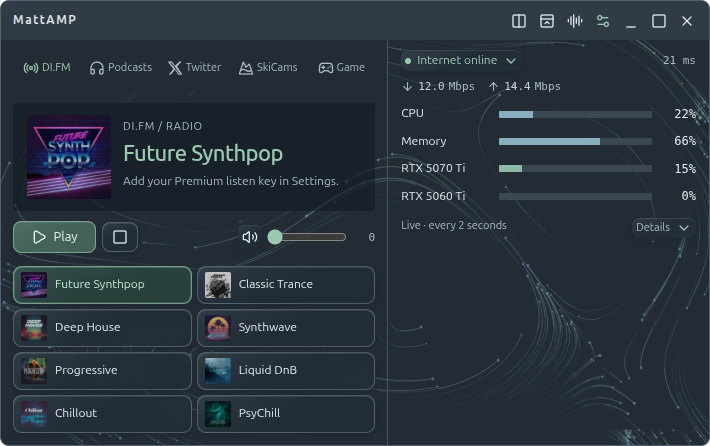
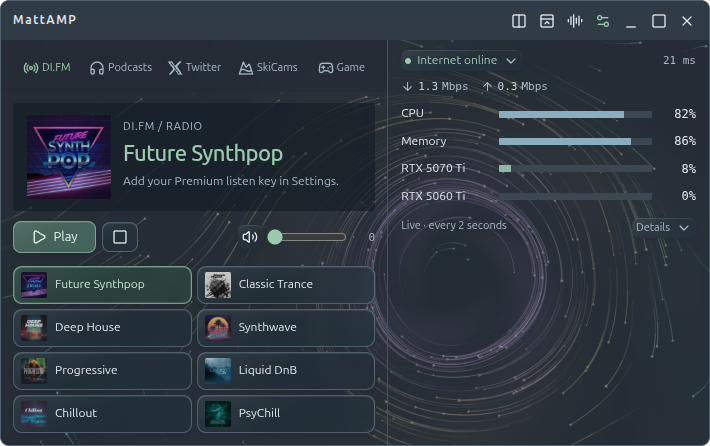
Add drifting hurricane patterns to Particle Flow

diff --git a/src/ambient.js b/src/ambient.js
@@ -137,33 +137,49 @@ class MattTrenchScene {
  }
 }
 
-/* Moving eddies carry layered tracers; trails and particle count stay bounded. */
+/* Decorative wind field, not live weather: bounded tracers orbit a drifting storm. */
 class MattParticleFlow {
  constructor(w,h){
   this.width=w;this.height=h;
-  this.particles=Array.from({length:Math.min(360,Math.max(180,Math.round(w*h/1350)))},(_,i)=>{
+  this.particles=Array.from({length:Math.min(480,Math.max(220,Math.round(w*h/1050)))},(_,i)=>{
    const depth=.35+(i*.754877666%1)*.65;
-   return {x:(i*.61803398875%1)*w,y:(i*.41421356237%1)*h,vx:0,vy:0,depth,tint:i%7===0?2:i%3===0?1:0,trail:[],age:(i*.56984029%1)*24,life:24+(i%11),generation:0,index:i,fade:1};
+   return {x:(i*.61803398875%1)*w,y:(i*.41421356237%1)*h,vx:0,vy:0,depth,energy:0,trail:[],age:(i*.56984029%1)*24,life:24+(i%11),generation:0,index:i,fade:1};
   });
+ }
+ weather(time){
+  const scale=Math.min(this.width,this.height);
+  return {x:this.width*(.55+.14*Math.sin(time*.018)),y:this.height*(.53+.13*Math.cos(time*.021)),r:scale*(.39+.035*Math.sin(time*.026)),eye:scale*.045,phase:time*.07};
+ }
+ wind(x,y,time,storm=this.weather(time)){
+  const dx=x-storm.x,dy=y-storm.y,d=Math.hypot(dx,dy),r=storm.r;
+  const angle=Math.atan2(dy,dx),q=Math.max(0,(d-storm.eye)/(r*.15));
+  const wall=1-Math.exp(-q*q),influence=Math.exp(-Math.pow(d/(r*1.4),4));
+  const bands=.66+.34*Math.sin(angle*3-Math.log(Math.max(d,storm.eye)/r)*5+storm.phase);
+  const rotation=115*wall*Math.exp(-d/(r*.9))*(.86+bands*.14);
+  const inflow=-20*wall*Math.exp(-d/r)*bands;
+  const norm=Math.max(d,1),background=1-influence;
+  const vx=(19+19*Math.sin(y/this.height*7+time*.1)+12*Math.cos(y/this.height*13-time*.08))*background+(-dy*rotation+dx*inflow)/norm;
+  const vy=(17*Math.sin(x/this.width*8-time*.09)+10*Math.cos(x/this.width*15+time*.07))*background+(dx*rotation+dy*inflow)/norm;
+  const eyeFade=Math.max(0,Math.min(1,(d-storm.eye*.65)/(storm.eye*.6)));
+  return {vx,vy,energy:Math.min(1,Math.hypot(vx,vy)/65),wash:wall*Math.exp(-d/(r*1.15))*bands,eyeFade};
+ }
+ // Subdued wind-map palette: cool currents, green bands, warmer eyewall.
+ color(energy){
+  const stops=[[123,177,204],[145,190,171],[185,168,126],[166,143,185]];
+  const t=Math.max(0,Math.min(1,energy))*3,i=Math.min(2,Math.floor(t)),f=t-i;
+  return stops[i].map((n,j)=>Math.round(n+(stops[i+1][j]-n)*f));
  }
  step(dt,time,pointer={x:.5,y:.5,strength:0}){
   if(!Number.isFinite(dt)||dt<=0)return;
-  dt=Math.min(dt,.08);const w=this.width,h=this.height,scale=Math.min(w,h);
-  const eddies=[
-   {x:w*(.31+.12*Math.sin(time*.085)),y:h*(.38+.17*Math.cos(time*.065)),r:scale*.36,spin:1},
-   {x:w*(.7+.12*Math.cos(time*.07)),y:h*(.64+.16*Math.sin(time*.09)),r:scale*.3,spin:-1},
-   {x:w*(.48+.23*Math.sin(time*.045)),y:h*(.5+.25*Math.cos(time*.055)),r:scale*.47,spin:.65}
-  ];
-  const mx=pointer.x*w,my=pointer.y*h,radius=Math.max(100,Math.min(190,scale*.4));
+  dt=Math.min(dt,.08);const w=this.width,h=this.height,storm=this.weather(time);
+  const mx=pointer.x*w,my=pointer.y*h,radius=Math.max(100,Math.min(190,Math.min(w,h)*.4));
   for(const p of this.particles){
-   const x=p.x/w,y=p.y/h;
-   let vx=19+19*Math.sin(y*7+time*.18)+12*Math.cos(y*13-time*.13),vy=17*Math.sin(x*8-time*.16)+10*Math.cos(x*15+time*.11);
-   for(const e of eddies){const dx=p.x-e.x,dy=p.y-e.y,falloff=Math.exp(-(dx*dx+dy*dy)/(e.r*e.r));vx-=dy/e.r*155*falloff*e.spin;vy+=dx/e.r*155*falloff*e.spin;}
+   const wind=this.wind(p.x,p.y,time,storm);let {vx,vy}=wind;
    const dx=p.x-mx,dy=p.y-my,falloff=Math.exp(-(dx*dx+dy*dy)/(radius*radius))*(pointer.strength||0);
-   // A soft whirlpool with an outward wake; no hard mouse collision or input interception.
    vx+=(dx*.32-dy)*falloff*1.3;vy+=(dy*.32+dx)*falloff*1.3;
-   const ease=1-Math.exp(-dt*2.8),speed=.65+p.depth*.65;
-   p.vx+=(vx*speed-p.vx)*ease;p.vy+=(vy*speed-p.vy)*ease;
+   // Fast directional response keeps the eyewall coherent; depth still varies speed.
+   const ease=1-Math.exp(-dt*7),speed=.8+p.depth*.4;
+   p.vx+=(vx*speed-p.vx)*ease;p.vy+=(vy*speed-p.vy)*ease;p.energy+=(wind.energy-p.energy)*ease;
    p.x+=p.vx*dt;p.y+=p.vy*dt;p.age+=dt;
    if(p.age>=p.life){
     p.generation++;const n=p.index+p.generation*127;
@@ -171,7 +187,8 @@ class MattParticleFlow {
    }else if(p.x< -16||p.x>w+16||p.y< -16||p.y>h+16){
     p.x=((p.x+16)%(w+32)+w+32)%(w+32)-16;p.y=((p.y+16)%(h+32)+h+32)%(h+32)-16;p.trail=[];
    }
-   p.fade=Math.max(0,Math.min(1,p.age/1.2,(p.life-p.age)/1.5));
+   p.fade=Math.max(0,Math.min(1,p.age/1.2,(p.life-p.age)/1.5))*wind.eyeFade;
+   // Keep the long trails that make Particle Flow distinctive.
    p.trail.push({x:p.x,y:p.y});if(p.trail.length>64)p.trail.shift();
   }
  }
@@ -257,21 +274,37 @@ class MattAmbient {
  }
  drawFlow(dt){
   this.flow.step(dt,this.time,this.pointer);
-  const c=this.ctx,colors=['123,177,204','145,190,171','142,159,201'];
+  const c=this.ctx;this.drawWindWash();
   c.lineCap='round';c.lineJoin='round';
   for(const p of this.particles){
-   const trail=p.trail,n=trail.length;if(n<2)continue;
+   const trail=p.trail,n=trail.length;if(n<2)continue;const color=this.flow.color(p.energy).join(',');
    // Faint tails build into brighter tips, with depth carried by speed and line weight.
    for(let band=0;band<3;band++){
     const from=Math.floor((n-1)*band/3),to=Math.floor((n-1)*(band+1)/3);
-    c.strokeStyle=`rgba(${colors[p.tint]},${[.065,.16,.3][band]*p.fade*(.6+p.depth*.4)})`;
+    c.strokeStyle=`rgba(${color},${[.065,.16,.3][band]*p.fade*(.6+p.depth*.4)})`;
     c.lineWidth=.55+p.depth*.65;c.beginPath();c.moveTo(trail[from].x,trail[from].y);
     for(let j=from+1;j<=to;j++)c.lineTo(trail[j].x,trail[j].y);c.stroke();
    }
-   c.fillStyle=`rgba(${colors[p.tint]},${(.25+p.depth*.25)*p.fade})`;
+   c.fillStyle=`rgba(${color},${(.25+p.depth*.25)*p.fade})`;
    c.beginPath();c.arc(p.x,p.y,.65+p.depth*.65,0,Math.PI*2);c.fill();
   }
   c.lineCap='butt';c.lineJoin='miter';
+ }
+
+ drawWindWash(){
+  // A small, slowly updated field keeps the color wash inexpensive and softly blended.
+  const w=this.width,h=this.height,scale=96/Math.max(w,h),sw=Math.max(1,Math.round(w*scale)),sh=Math.max(1,Math.round(h*scale));
+  if(!this.windMap){this.windMap=document.createElement('canvas');this.windMapTime=-Infinity;}
+  if(this.windMap.width!==sw||this.windMap.height!==sh){this.windMap.width=sw;this.windMap.height=sh;this.windMapTime=-Infinity;}
+  if(Math.abs(this.time-this.windMapTime)>=.25){
+   const context=this.windMap.getContext('2d'),pixels=context.createImageData(sw,sh),storm=this.flow.weather(this.time);
+   for(let y=0;y<sh;y++)for(let x=0;x<sw;x++){
+    const wind=this.flow.wind((x+.5)*w/sw,(y+.5)*h/sh,this.time,storm),color=this.flow.color(wind.energy),i=(y*sw+x)*4;
+    pixels.data[i]=color[0];pixels.data[i+1]=color[1];pixels.data[i+2]=color[2];pixels.data[i+3]=Math.round(wind.wash*wind.eyeFade*30);
+   }
+   context.putImageData(pixels,0,0);this.windMapTime=this.time;
+  }
+  this.ctx.drawImage(this.windMap,0,0,w,h);
  }
 
  drawTrench(){

diff --git a/README.md b/README.md
@@ -346,7 +346,7 @@ workstation telemetry. Install version 1.1.0 or later to use //e.
 
 **Optional nonsense:** “Send it!” for SkiCams, an action-hero “Hell yeah!” for Game, “Meh” for Podcasts/Twitter, and a long “Yeeeeah” for DI.FM. Switch **Silly sound effects** off in Settings whenever civilization requires it.
 
-**Live backgrounds:** Particle flow, Water waves, Starfield, Mandelbrot zoom, Trench Run, or Off. They react to the mouse. Particle flow sends layered cyan, mint, and muted-blue trails through shifting eddies; hovering stirs a curling wake. Mandelbrot wanders through different regions with glides, curves, and spirals—a little Fractint affection, without turning the room into a flashlight. Trench Run is an endless, Star Wars vector-arcade-inspired flight through a geometric canyon: sharp corners, narrowing passages, varied wall panels, recessed floor shafts, and occasional dim enemy cannon bolts. Tight gaps bring steep knife-edge banks and full barrel rolls about once a minute; the text and controls stay upright. Mouse movement adds a little steering feel. A new procedural route is seeded each launch; there is no short repeating loop. Animation pauses when hidden or in bug mode and respects reduced motion.
+**Live backgrounds:** Particle flow, Water waves, Starfield, Mandelbrot zoom, Trench Run, or Off. They react to the mouse. Particle flow keeps its long, fading trails while a decorative hurricane drifts through the currents: a calm eye, curling bands, and subtle wind-map colors. Hovering still stirs a curling wake. This is locally generated scenery, not live weather. Mandelbrot wanders through different regions with glides, curves, and spirals—a little Fractint affection, without turning the room into a flashlight. Trench Run is an endless, Star Wars vector-arcade-inspired flight through a geometric canyon: sharp corners, narrowing passages, varied wall panels, recessed floor shafts, and occasional dim enemy cannon bolts. Tight gaps bring steep knife-edge banks and full barrel rolls about once a minute; the text and controls stay upright. Mouse movement adds a little steering feel. A new procedural route is seeded each launch; there is no short repeating loop. Animation pauses when hidden or in bug mode and respects reduced motion.
 
 CPU, memory, and network readings update every two seconds. Download and upload rates display in Mbps in Modern, Kbps in ’90s, and bps in //e, including compact mode. RAM and GPU memory readouts use MiB. NVIDIA GPU readings use `nvidia-smi`; absent sensors show as unavailable. Expand network status for router/internet checks.
 

diff --git a/DESIGN.md b/DESIGN.md
@@ -277,4 +277,4 @@ Star Wars vector-arcade-inspired geometric canyon, not a city skyline: gridded f
 
 ### Particle flow refresh
 
-Keep the existing shell #232b34, text #e1e8ed, secondary #a8b9c7 and system typography. Motion lives behind the unchanged controls: flowing cyan #7bb1cc, mint #91beab and muted blue #8e9fc9 tracers, with faint tails and slightly brighter tips. Three moving eddies and a changing cross-current create sweeping curls; varied speeds and line widths supply depth. The mouse adds a local whirlpool and outward wake without intercepting input. Bound the effect to 180–360 particles, 64 trail samples each and the existing 24 fps cap; fade aged tracers before reseeding and clear trails on edge wraps. Preserve Off, reduced motion, hidden-window and Bug mode pausing, and classic-theme suppression. No flashes, bloom, full-screen fills or added interface chrome.
+Keep the existing shell #232b34, text #e1e8ed, secondary #a8b9c7 and system typography. Motion lives behind the unchanged controls: flowing cyan #7bb1cc, mint #91beab, muted amber #b9a87e and violet #a68fb9 tracers, with faint tails and slightly brighter tips. A slowly drifting hurricane-shaped field adds a calm eye, circulating eyewall and inward spiral bands to a changing cross-current. Keep the long trails; varied speeds and line widths supply depth. A generated color wash samples the same field on a canvas capped at 96 pixels on its longest edge, updated at most four times per second. Its maximum opacity is 30/255, with no map, forecast data or external requests. The mouse adds a local whirlpool and outward wake without intercepting input. Bound the effect to 220–480 particles, 64 trail samples each and the existing 24 fps cap; fade aged tracers before reseeding and clear trails on edge wraps. Preserve Off, reduced motion, hidden-window and Bug mode pausing, and classic-theme suppression. No flashes, bloom, opaque full-screen fills or added interface chrome.

diff --git a/docs/guide.md b/docs/guide.md
@@ -75,7 +75,7 @@ Leaving an unfinished battle earns no score or rivalry record.
 
 Choose **Settings → Live background**: Particle flow (default), Water waves, Starfield, Mandelbrot zoom, Trench Run, or Off. The selection saves locally. Effects stay inside MattAMP; they do not change your desktop wallpaper.
 
-Particle flow uses long, fading trails at varied speeds through moving swirls; the pointer stirs a local whirlpool and outward wake. Waves ripple, stars shift with depth, the fractal pans gently, and Trench Run banks toward the pointer. Embedded X/video surfaces handle their own pointer input and retain their own backgrounds.
+Particle flow keeps its long, fading trails at varied speeds, now circulating around a slowly drifting hurricane eye. Subtle green, amber and violet shading follows the generated wind field; the pointer still stirs a local whirlpool and outward wake. This is decorative local animation, not a weather forecast or a Windy.com integration. Waves ripple, stars shift with depth, the fractal pans gently, and Trench Run banks toward the pointer. Embedded X/video surfaces handle their own pointer input and retain their own backgrounds.
 
 Mandelbrot explores six regions in randomized 2½–3½-minute passes: horizontal/vertical glides, curved approaches, and slow spirals, returning to a wide view between destinations. Consecutive destinations/routes differ. Its GPU renderer is capped at 18 fps and 640 pixels on the longest edge; without WebGL it uses a static fractal.
 
